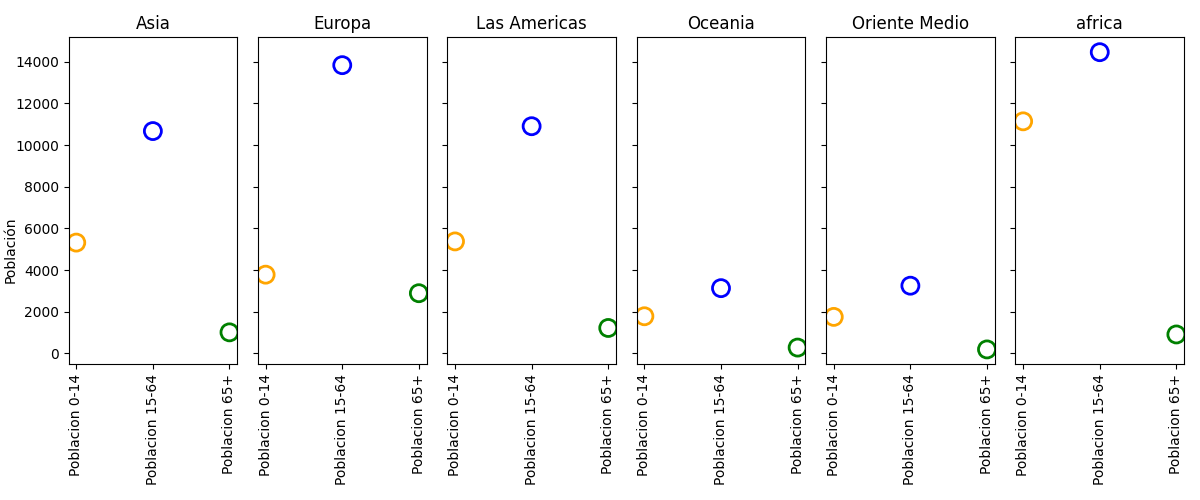
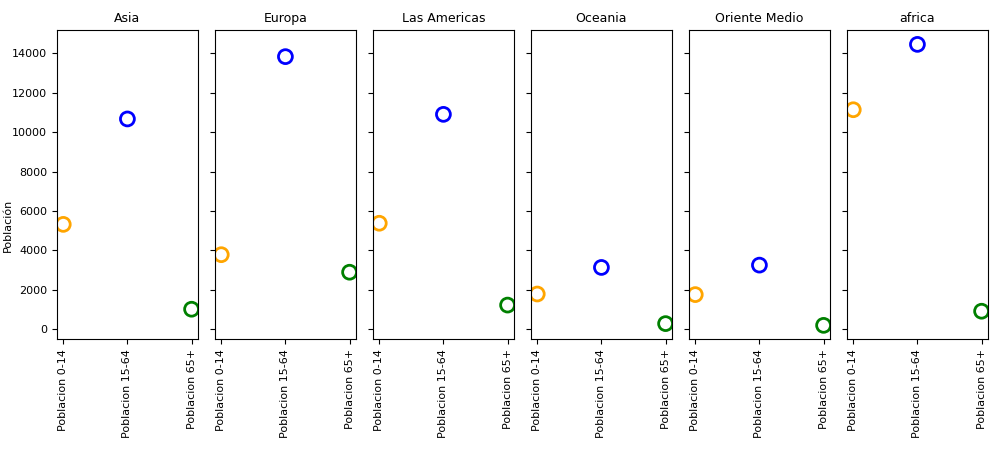
matplotlib modified

diff --git a/matplotlib/q03/solution.py b/matplotlib/q03/solution.py
@@ -4,47 +4,54 @@ import pandas as pd
 import matplotlib.pyplot as plt
 
 def main():
-	# leyendo los datos del archivo 'data.csv'
-	data = pd.read_csv('data.csv')
+    # leyendo los datos del archivo 'data.csv'
+    data = pd.read_csv('data.csv')
 
-	# Se toman los datos de la primera columna para definir los elementos del eje x
-	cnts = list(data["Region"])
+    # Se toman los datos de la primera columna para definir los elementos del eje x
+    cnts = list(data["Region"])
 
-	# descripción de la figura con
-	# 3 sub-figuras (len(data))
-	# tamaño 12x5
-	# sharex, sharey indican que las subfiguras comparten los ejes
-	fig, axs = plt.subplots(3, 1, figsize=(6, 8), sharex=True, sharey=False)
-	# Lista de los colores para cada sub-figura
-	colors = ['orange', 'blue', 'green']
-	# contador que iterará entre las sub-figuras
-	i = 0
-	# iteritems retorna una tupla con el nombre de la columna y sus datos
-	for (columnName, columnData) in data.iteritems():
-		# evitamos la primera columna
-		if(columnName != "Region"):
-			# Creamos la gráfica de barras
-			# eje x -> países
-			# eje y -> población
-			# color, itera en la lista definida previamente
-			axs[i].bar(cnts, columnData, color=colors[i])
-			# Definimos el nombre del eje y como el nombre de la columna
-			plt.setp(axs[i], ylabel=columnName)
+    # descripción de la figura con
+    # 3 sub-figuras (len(data))
+    # tamaño 12x5
+    # sharex, sharey indican que las subfiguras comparten los ejes
+    fig, axs = plt.subplots(3, 1, figsize=(6, 8), sharex=True, sharey=False)
+    # Lista de los colores para cada sub-figura
+    colors = ['orange', 'blue', 'green']
+    # contador que iterará entre las sub-figuras
+    i = 0
+    plt.rcParams.update({'font.size': 8})
+    # iteritems retorna una tupla con el nombre de la columna y sus datos
+    for (columnName, columnData) in data.iteritems():
+        # evitamos la primera columna
+        if(columnName != "Region"):
+            # Creamos la gráfica de barras
+            # eje x -> países
+            # eje y -> población
+            # color, itera en la lista definida previamente
+            axs[i].bar(cnts, columnData, color=colors[i])
+            # Definimos el nombre del eje y como el nombre de la columna
+            axs[i].set_ylabel(columnName, fontsize=9)
 
-			# Se eliminan las líneas: derecha, izquierda y superior
-			axs[i].spines['right'].set_visible(False)
-			axs[i].spines['left'].set_visible(False)
-			axs[i].spines['top'].set_visible(False)
+            # Se eliminan las líneas: derecha, izquierda y superior
+            axs[i].spines['right'].set_visible(False)
+            axs[i].spines['left'].set_visible(False)
+            axs[i].spines['top'].set_visible(False)
 
-			# inclinación de las palabras en el eje x
-			for tick in axs[i].get_xticklabels():
-				tick.set_rotation(90)
-			i+=1
+            # inclinación de las palabras en el eje x
+            for tick in axs[i].xaxis.get_major_ticks():
+                tick.label.set_fontsize(8)
+                tick.label.set_rotation('vertical')
 
-	# ajusta figura
-	plt.tight_layout()
-	# guardar figura
-	plt.savefig('generada.png')
+            for tick in axs[i].yaxis.get_major_ticks():
+                tick.label.set_fontsize(8)
+
+            i+=1
+
+
+    # ajusta figura
+    plt.tight_layout()
+    # guardar figura
+    plt.savefig('generada.png')
 
 if __name__ == "__main__":
     main()

diff --git a/matplotlib/q01/solution.py b/matplotlib/q01/solution.py
@@ -3,46 +3,53 @@ import pandas as pd
 # se importa matplotlib y se le da el sobrenombre 'plt'
 import matplotlib.pyplot as plt
 
+
+SMALL_SIZE = 8
+
 def main():
-	# leyendo los datos del archivo 'data.csv'
-	data = pd.read_csv('data.csv')
+    # leyendo los datos del archivo 'data.csv'
+    data = pd.read_csv('data.csv')
 
-	# obtener una lista de listas, donde cada sublista corresponde a una fila
-	vals = data.values.tolist()
-	# Lista de columnas
-	cols = list(data.columns)
+    # obtener una lista de listas, donde cada sublista corresponde a una fila
+    vals = data.values.tolist()
+    # Lista de columnas
+    cols = list(data.columns)
 
-	# descripción de la figura con
-	# 6 sub-figuras (len(data))
-	# tamaño 12x5
-	# sharex, sharey indican que las subfiguras comparten los ejes
-	fig, axs = plt.subplots(1, len(data), figsize=(12, 5), sharex=True, sharey=True)
-
+    # descripción de la figura con
+    # 6 sub-figuras (len(data))
+    # tamaño 12x5
+    # sharex, sharey indican que las subfiguras comparten los ejes
+    fig, axs = plt.subplots(1, len(data), figsize=(10, 4.5), sharex=True, sharey=True)
 	# enumerate retorna el índice y el valor de vals
-	for i, cnt in enumerate(vals):
-		# Creo una sub-figura
-		# x[1::] indica que se toma desde el segundo valor hasta el final de la lista
-		# s, tamaño del marcador
-		# marcador = círculo
-		# edgecolor= color del borde
-		# linewith = grosor del borde
-		# facecolor = color del círculo
-		axs[i].scatter(cols[1::], cnt[1::], s=150, marker='o',
-					edgecolor=['orange', 'blue', 'green'],
-					linewidth=2, facecolor='white')
-		# Definición del título de la sub-figura
-		axs[i].set_title(cnt[0])
+    plt.rcParams.update({'font.size': 8})
+    for i, cnt in enumerate(vals):
+        # Creo una sub-figura
+        # x[1::] indica que se toma desde el segundo valor hasta el final de la lista
+        # s, tamaño del marcador
+        # marcador = círculo
+        # edgecolor= color del borde
+        # linewith = grosor del borde
+        # facecolor = color del círculo
+        axs[i].scatter(cols[1::], cnt[1::], s=100, marker='o',
+                       edgecolor=['orange', 'blue', 'green'],
+                       linewidth=2, facecolor='white')
+        # Definición del título de la sub-figura
+        axs[i].set_title(cnt[0], fontsize=9)
 
-		# inclinación de las palabras en el eje x
-		for tick in axs[i].get_xticklabels():
-			tick.set_rotation(90)
+        # inclinación de las palabras en el eje x
+        for tick in axs[i].xaxis.get_major_ticks():
+                tick.label.set_fontsize(8)
+                tick.label.set_rotation('vertical')
 
-	# Nombre del eje y común para todas las figuras
-	fig.text(0.003, 0.5, 'Población', va='center', rotation='vertical')
-	# ajusta figura
-	plt.tight_layout()
-	# guardar figura
-	plt.savefig('generada.png')
+        for tick in axs[i].yaxis.get_major_ticks():
+                tick.label.set_fontsize(8)
+
+    # Nombre del eje y común para todas las figuras
+    fig.text(0.003, 0.5, 'Población', va='center', rotation='vertical')
+    # ajusta figura
+    plt.tight_layout()
+    # guardar figura
+    plt.savefig('generada.png',)
 
 if __name__ == "__main__":
     main()

diff --git a/matplotlib/q02/solution.py b/matplotlib/q02/solution.py
@@ -4,39 +4,44 @@ import pandas as pd
 import matplotlib.pyplot as plt
 
 def main():
-	# leyendo los datos del archivo 'data.csv'
-	data = pd.read_csv('data.csv')
+    # leyendo los datos del archivo 'data.csv'
+    data = pd.read_csv('data.csv')
 
-	# obtener una lista de listas, donde cada sublista corresponde a una fila
-	vals = data.values.tolist()
-	# Lista de columnas
-	cols = list(data.columns)
+    # obtener una lista de listas, donde cada sublista corresponde a una fila
+    vals = data.values.tolist()
+    # Lista de columnas
+    cols = list(data.columns)
 
-	# descripción de la figura con
-	# 6 sub-figuras (len(data))
-	# tamaño 12x5
-	# sharex, sharey indican que las subfiguras comparten los ejes
-	fig, axs = plt.subplots(1, len(data), figsize=(12, 5), sharex=True, sharey=True)
+    # descripción de la figura con
+    # 6 sub-figuras (len(data))
+    # tamaño 12x5
+    # sharex, sharey indican que las subfiguras comparten los ejes
+    fig, axs = plt.subplots(1, len(data), figsize=(10, 4.5), sharex=True, sharey=True)
 
-	# enumerate retorna el índice y el valor de vals
-	for i, cnt in enumerate(vals):
-		# Creo una sub-figura
-		# x[1::] indica que se toma desde el segundo valor hasta el final de la lista
-		# color = lista de colores para cada elemento de la lista cnt[1::]
-		axs[i].bar(cols[1::], cnt[1::], color=['orange', 'blue', 'green'])
-		# Definición del título de la sub-figura
-		axs[i].set_title(cnt[0])
+    plt.rcParams.update({'font.size': 8})
+    # enumerate retorna el índice y el valor de vals
+    for i, cnt in enumerate(vals):
+        # Creo una sub-figura
+        # x[1::] indica que se toma desde el segundo valor hasta el final de la lista
+        # color = lista de colores para cada elemento de la lista cnt[1::]
+        axs[i].bar(cols[1::], cnt[1::], color=['orange', 'blue', 'green'])
+        # Definición del título de la sub-figura
+        axs[i].set_title(cnt[0], fontsize=9)
 
-		# inclinación de las palabras en el eje x
-		for tick in axs[i].get_xticklabels():
-			tick.set_rotation(90)
+        # inclinación de las palabras en el eje x
+        for tick in axs[i].xaxis.get_major_ticks():
+            tick.label.set_fontsize(8)
+            tick.label.set_rotation('vertical')
 
-	# Nombre del eje y común para todas las figuras
-	fig.text(0.003, 0.5, 'Población', va='center', rotation='vertical')
-	# ajusta figura
-	plt.tight_layout()
-	# guardar figura
-	plt.savefig('generada.png')
+        for tick in axs[i].yaxis.get_major_ticks():
+            tick.label.set_fontsize(8)
+
+    # Nombre del eje y común para todas las figuras
+    fig.text(0.003, 0.5, 'Población', va='center', rotation='vertical')
+    # ajusta figura
+    plt.tight_layout()
+    # guardar figura
+    plt.savefig('generada.png')
 
 if __name__ == "__main__":
     main()
